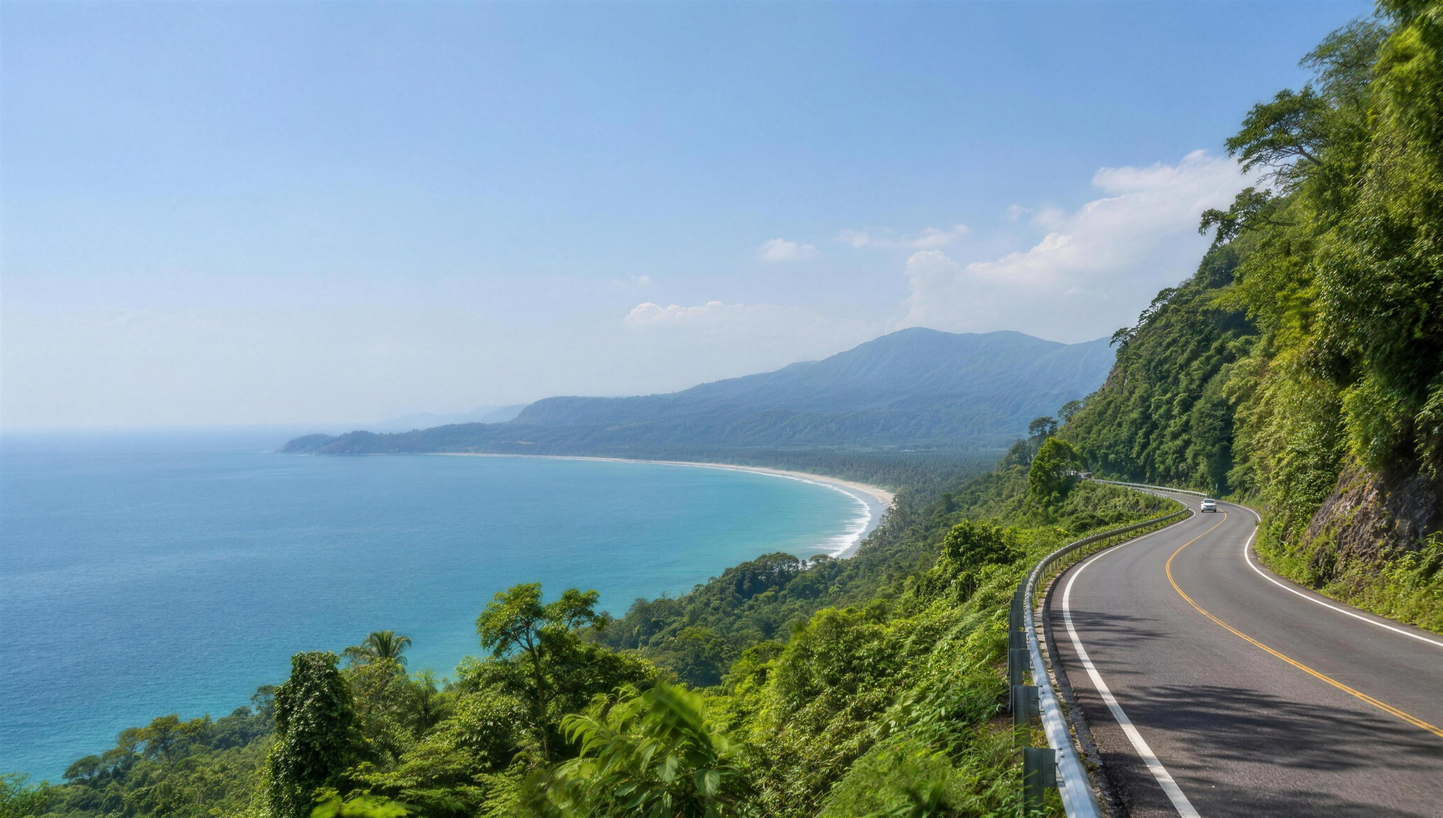
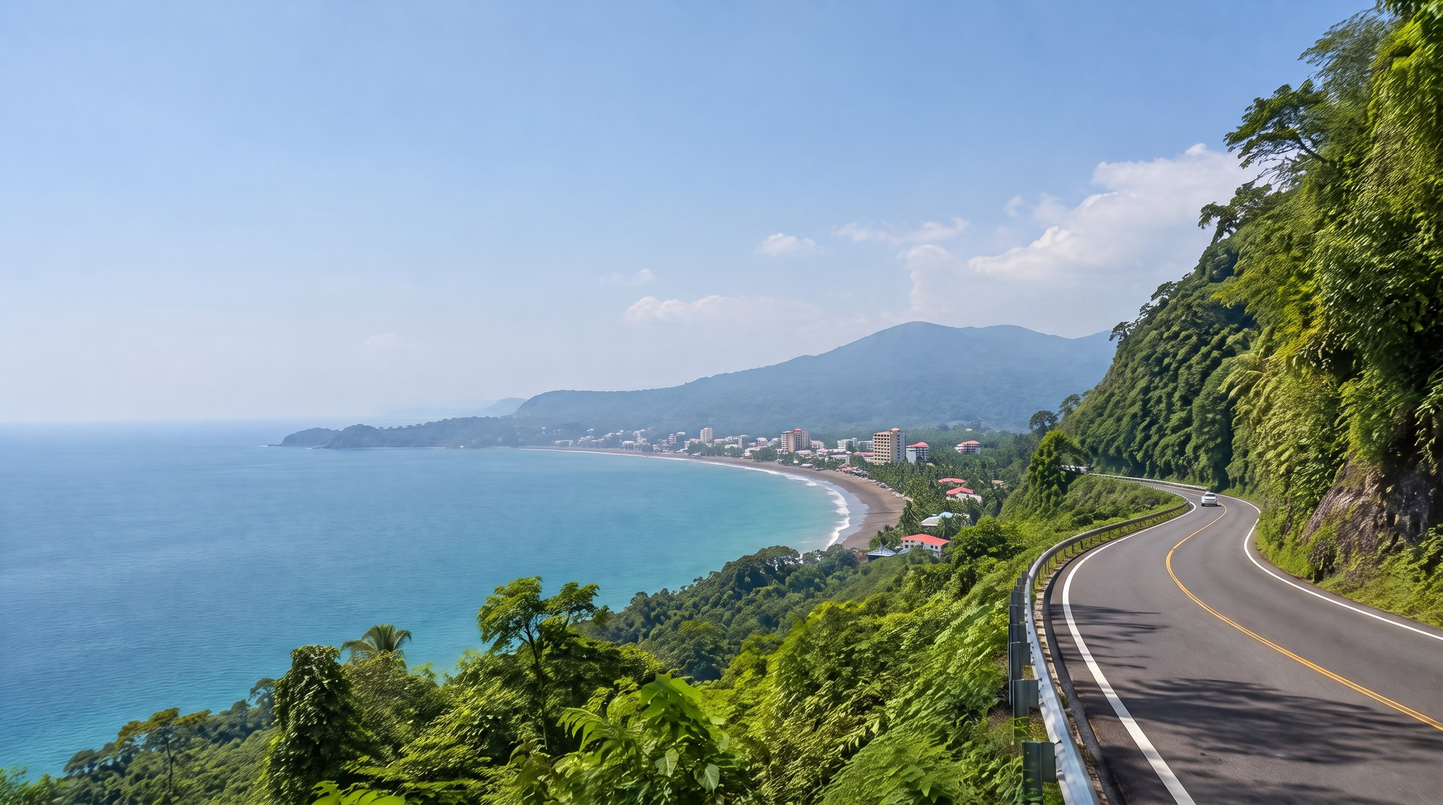
Fishing page: no numbers section, 8-species season chart (researched), crew-sailfish header; species seasons aligned site-wide; phone gap + crop fixes; cleaned cooler; Jaco in Getting here header

Changed region(s): [[0.0, 0.0, 1.0, 1.0], [0.8438, 0.7698, 0.875, 0.8006]]

diff --git a/costa-rica-fishing.html b/costa-rica-fishing.html
@@ -6,14 +6,14 @@
 <meta name="viewport" content="width=device-width, initial-scale=1.0">
 
 <title>Fishing Costa Rica's Central Pacific — Herradura Bay &amp; Jacó | Great Marlin</title>
-<meta name="description" content="What the water off Herradura Bay actually does, month by month. Verified seasons, the honest release numbers, the fish, the method and the law — from a boat that fishes it.">
+<meta name="description" content="What the water off Herradura Bay actually does, month by month. Verified seasons, the fish, the method and the law — from a boat that fishes it.">
 <link rel="canonical" href="https://greatmarlin.com/costa-rica-fishing.html">
 
 <meta property="og:type" content="article">
 <meta property="og:site_name" content="Great Marlin">
 <meta property="og:url" content="https://greatmarlin.com/costa-rica-fishing.html">
 <meta property="og:title" content="Fishing Costa Rica's Central Pacific — the honest guide">
-<meta property="og:description" content="Verified seasons, real release numbers, and the parts nobody puts on a charter website. Herradura Bay, Costa Rica.">
+<meta property="og:description" content="Verified seasons, the fish, and the parts nobody puts on a charter website. Herradura Bay, Costa Rica.">
 <meta property="og:image" content="https://greatmarlin.com/assets/gm-bow.jpg?v=2">
 <meta name="twitter:card" content="summary_large_image">
 <meta name="theme-color" content="#091228">
@@ -26,7 +26,7 @@
   "@context":"https://schema.org",
   "@type":"Article",
   "headline":"Fishing Costa Rica's Central Pacific — Herradura Bay and Jaco",
-  "description":"Verified season data, honest release numbers, species, method and regulations for offshore sportfishing out of Herradura Bay, Costa Rica.",
+  "description":"Verified season data, species, method and regulations for offshore sportfishing out of Herradura Bay, Costa Rica.",
   "image":"https://greatmarlin.com/assets/gm-bow.jpg?v=2",
   "author":{"@type":"Organization","name":"Great Marlin"},
   "publisher":{"@type":"Organization","name":"Great Marlin"},
@@ -82,11 +82,11 @@
 
   <!-- ============ HERO ============ -->
   <header class="pg-hero">
-    <div class="pg-hero-media"><img src="assets/photos/sail-boatside.jpg" alt="A marlin alongside the Great Marlin, held at the gunwale before release" fetchpriority="high" style="object-position:30% 50%;--mpos:24% 60%"></div>
+    <div class="pg-hero-media"><img src="assets/photos/crew-sailfish.jpg" alt="Crew and guests leaning over the gunwale of the Great Marlin with a sailfish alongside before release" fetchpriority="high" style="object-position:50% 42%;--mpos:50% 45%"></div>
     <div class="pg-hero-grade"></div>
     <div class="pg-hero-inner shell">
       <h1>Fishing Costa&nbsp;Rica's central Pacific</h1>
-      <p class="sub">What this water actually does — month by month, in real numbers. The seasons, the fish, the method, and the parts nobody else puts on a charter website.</p>
+      <p class="sub">What this water actually does, month by month. The seasons, the fish, the method, and the parts nobody else puts on a charter website.</p>
       <div class="stamp">
         <span>[ HERRADURA BAY · 09°38'N ]</span>
         <span>[ 22–28 MI TO BLUE WATER ]</span>
@@ -121,20 +121,21 @@
   <!-- ============ 02 THE SEASON ============ -->
   <section class="band band-deep" id="season">
     <div class="shell">
-      <div class="sec-head"><h2 class="d sec-title">The Season</h2><p class="sec-sub lbl">Both of them fish</p></div>
+      <div class="sec-head"><h2 class="d sec-title">The Season</h2><p class="sec-sub lbl">Something is always biting</p></div>
 
       <div class="split" style="margin-bottom:clamp(56px,9vh,110px)">
-        <div><p class="statement rv">Costa Rica has two seasons, and the second one is the secret.</p></div>
+        <div><p class="statement rv">Two seasons, and something is biting in every month of both.</p></div>
         <div>
-          <p class="prose rv"><strong>Dry season runs roughly December to April.</strong> Calm water, clean mornings, and the sailfishing this coast is famous for. It is the easy answer, and it is a good one.</p>
+          <p class="prose rv"><strong>Dry season runs roughly December to April.</strong> Calm water, clean mornings, the sailfishing this coast is famous for, and the best of the inshore year: roosterfish, cubera snapper and amberjack on the rocks and reefs.</p>
           <p class="prose rv"><strong>Green season runs roughly May to November.</strong> Rain arrives after two in the afternoon, almost never before — mornings are clear and you fish a full day. The rivers blow out and push floating trees and branches offshore, and dorado live under them. Yellowfin arrive with the rains, travelling with the spinner dolphin. Seas get a little rougher May through August.</p>
-          <p class="prose rv">June, July and August also hold a genuine second sailfish push. That is not our claim — <em>Marlin Magazine</em> says it, and they have nothing to sell you.</p>
+          <p class="prose rv"><strong>Offshore turns over with the rain.</strong> Yellowfin tuna peak from May into September, marlin from June to September, wahoo early in the green season and mahi from September to November. Sailfish never fully leave.</p>
+          <p class="prose rv"><strong>Inshore never closes.</strong> Roosterfish, snapper, jacks and grouper live on the rocks and the beach all year, which is why the half day is a good trip in any month.</p>
         </div>
       </div>
 
       <div class="cal-wrap rv">
         <table class="cal">
-          <caption class="m m-dim" style="text-align:left;padding-bottom:22px">Offshore · central Pacific · what runs when</caption>
+          <caption class="m m-dim" style="text-align:left;padding-bottom:22px">Offshore and inshore · central Pacific · what runs when</caption>
           <thead>
             <tr>
               <th><span class="m m-dim">Species</span></th>
@@ -145,27 +146,35 @@
           <tbody>
             <tr>
               <th scope="row">Pacific sailfish</th>
-              <td class="mo peak"><i></i></td><td class="mo peak"><i></i></td><td class="mo peak"><i></i></td><td class="mo peak"><i></i></td>
-              <td class="mo good"><i></i></td><td class="mo good"><i></i></td><td class="mo good"><i></i></td><td class="mo good"><i></i></td>
-              <td class="mo"><i></i></td><td class="mo"><i></i></td><td class="mo good"><i></i></td><td class="mo peak"><i></i></td>
+              <td class="mo peak"><i></i></td><td class="mo peak"><i></i></td><td class="mo peak"><i></i></td><td class="mo peak"><i></i></td><td class="mo good"><i></i></td><td class="mo good"><i></i></td><td class="mo good"><i></i></td><td class="mo good"><i></i></td><td class="mo"><i></i></td><td class="mo"><i></i></td><td class="mo good"><i></i></td><td class="mo peak"><i></i></td>
+            </tr>
+            <tr>
+              <th scope="row">Marlin (blue &amp; black)</th>
+              <td class="mo"><i></i></td><td class="mo good"><i></i></td><td class="mo good"><i></i></td><td class="mo"><i></i></td><td class="mo good"><i></i></td><td class="mo peak"><i></i></td><td class="mo peak"><i></i></td><td class="mo peak"><i></i></td><td class="mo peak"><i></i></td><td class="mo good"><i></i></td><td class="mo good"><i></i></td><td class="mo"><i></i></td>
             </tr>
             <tr>
               <th scope="row">Yellowfin tuna</th>
-              <td class="mo"><i></i></td><td class="mo"><i></i></td><td class="mo"><i></i></td><td class="mo"><i></i></td>
-              <td class="mo good"><i></i></td><td class="mo good"><i></i></td><td class="mo good"><i></i></td><td class="mo peak"><i></i></td>
-              <td class="mo peak"><i></i></td><td class="mo peak"><i></i></td><td class="mo good"><i></i></td><td class="mo"><i></i></td>
+              <td class="mo good"><i></i></td><td class="mo good"><i></i></td><td class="mo good"><i></i></td><td class="mo good"><i></i></td><td class="mo peak"><i></i></td><td class="mo peak"><i></i></td><td class="mo peak"><i></i></td><td class="mo peak"><i></i></td><td class="mo peak"><i></i></td><td class="mo good"><i></i></td><td class="mo good"><i></i></td><td class="mo good"><i></i></td>
             </tr>
             <tr>
               <th scope="row">Mahi mahi</th>
-              <td class="mo"><i></i></td><td class="mo"><i></i></td><td class="mo"><i></i></td><td class="mo good"><i></i></td>
-              <td class="mo good"><i></i></td><td class="mo good"><i></i></td><td class="mo good"><i></i></td><td class="mo good"><i></i></td>
-              <td class="mo good"><i></i></td><td class="mo good"><i></i></td><td class="mo peak"><i></i></td><td class="mo peak"><i></i></td>
+              <td class="mo"><i></i></td><td class="mo"><i></i></td><td class="mo"><i></i></td><td class="mo good"><i></i></td><td class="mo good"><i></i></td><td class="mo good"><i></i></td><td class="mo good"><i></i></td><td class="mo good"><i></i></td><td class="mo peak"><i></i></td><td class="mo peak"><i></i></td><td class="mo peak"><i></i></td><td class="mo good"><i></i></td>
             </tr>
             <tr>
-              <th scope="row">Blue marlin</th>
-              <td class="mo"><i></i></td><td class="mo"><i></i></td><td class="mo"><i></i></td><td class="mo"><i></i></td>
-              <td class="mo good"><i></i></td><td class="mo good"><i></i></td><td class="mo peak"><i></i></td><td class="mo peak"><i></i></td>
-              <td class="mo peak"><i></i></td><td class="mo peak"><i></i></td><td class="mo good"><i></i></td><td class="mo"><i></i></td>
+              <th scope="row">Wahoo</th>
+              <td class="mo"><i></i></td><td class="mo"><i></i></td><td class="mo good"><i></i></td><td class="mo good"><i></i></td><td class="mo peak"><i></i></td><td class="mo peak"><i></i></td><td class="mo good"><i></i></td><td class="mo good"><i></i></td><td class="mo"><i></i></td><td class="mo"><i></i></td><td class="mo"><i></i></td><td class="mo good"><i></i></td>
+            </tr>
+            <tr class="inshore-first">
+              <th scope="row">Roosterfish</th>
+              <td class="mo peak"><i></i></td><td class="mo peak"><i></i></td><td class="mo peak"><i></i></td><td class="mo peak"><i></i></td><td class="mo good"><i></i></td><td class="mo good"><i></i></td><td class="mo good"><i></i></td><td class="mo good"><i></i></td><td class="mo good"><i></i></td><td class="mo good"><i></i></td><td class="mo good"><i></i></td><td class="mo peak"><i></i></td>
+            </tr>
+            <tr>
+              <th scope="row">Cubera &amp; red snapper</th>
+              <td class="mo good"><i></i></td><td class="mo peak"><i></i></td><td class="mo peak"><i></i></td><td class="mo peak"><i></i></td><td class="mo good"><i></i></td><td class="mo good"><i></i></td><td class="mo good"><i></i></td><td class="mo good"><i></i></td><td class="mo good"><i></i></td><td class="mo good"><i></i></td><td class="mo good"><i></i></td><td class="mo good"><i></i></td>
+            </tr>
+            <tr>
+              <th scope="row">Jacks &amp; amberjack</th>
+              <td class="mo peak"><i></i></td><td class="mo peak"><i></i></td><td class="mo peak"><i></i></td><td class="mo good"><i></i></td><td class="mo good"><i></i></td><td class="mo good"><i></i></td><td class="mo good"><i></i></td><td class="mo good"><i></i></td><td class="mo good"><i></i></td><td class="mo good"><i></i></td><td class="mo good"><i></i></td><td class="mo good"><i></i></td>
             </tr>
           </tbody>
         </table>
@@ -177,58 +186,11 @@
         <span><i class="k-slow"></i> Around · not the reason to come</span>
       </div>
 
-      <p class="cal-note rv"><strong>Four rows. Not twelve.</strong> Every other Costa Rica fishing calendar online colours in twelve months for every species on the coast, and a lot of that colour is invented. These four are the ones we can stand behind for this stretch of water.</p>
-
-      <p class="cal-note rv"><strong>There is no wahoo row.</strong> Wahoo show up in the spread — fastest strike of the day, worth the whole trip when it happens. But we could not find a wahoo season for this coast that survives a second look. When a website tells you wahoo peaks in November, ask them how they know. Black marlin: occasionally. Also not a season.</p>
-
-      <p class="cal-note rv"><strong>And blue marlin needs an asterisk.</strong> The real blue marlin fishery here is the seamounts and the FADs, sixty to a hundred and fifty miles out — an overnight trip, not a day charter. On a day out of Herradura, a blue is a bonus and never a plan. In March 2026, forty tournament boats fished this water hard for three days and released eight of them.</p>
+      <p class="cal-note rv"><strong>The top five rows are offshore, the bottom three inshore.</strong> The full day runs offshore; the half day works the rocks and the beach. Grouper, sierra mackerel, African pompano and the odd black or striped marlin turn up too. The chart is what you can plan around, not everything that bites.</p>
     </div>
   </section>
 
-  <!-- ============ 03 THE NUMBERS ============ -->
-  <section class="band" id="numbers">
-    <div class="shell">
-      <div class="sec-head"><h2 class="d sec-title">The Numbers</h2><p class="sec-sub lbl">Sailfish releases · per boat · per day</p></div>
-
-      <div class="split" style="margin-bottom:clamp(48px,8vh,96px)">
-        <div><p class="statement rv">Every number you have read about this place is a tournament number.</p></div>
-        <div>
-          <p class="prose rv">"Dozens of sailfish a day." "Forty releases." "Seventy-five." Every one of those is real, and every one of them was caught by a tournament-caliber boat, on the best day of the best month, by a crew that does nothing else all year.</p>
-          <p class="prose rv">Here is the same fishery measured honestly. The tournament figures below are published results, not estimates.</p>
-        </div>
-      </div>
-
-      <ul class="figs rv">
-        <li>
-          <span class="what">Los Sueños Triple Crown, Leg III, March 2026. Forty of the best boats on earth, three days, peak season, this water. <strong>2,491 sailfish released.</strong> That works out to the fleet average, per boat, per day.</span>
-          <span class="fig">21<small>Elite fleet · peak</small></span>
-        </li>
-        <li>
-          <span class="what">The boat that won that series, on its hottest single day. This is the ceiling, and a professional tournament crew is standing on it.</span>
-          <span class="fig">41<small>The ceiling</small></span>
-        </li>
-        <li>
-          <span class="what">Sailfish bites on a good peak-season charter day, on a normal boat, with normal anglers. Sailfish throw hooks and win fights, so you will typically release about half of what bites.</span>
-          <span class="fig">4–12<small>Bites · Dec–Apr</small></span>
-        </li>
-        <li>
-          <span class="what">Green season. Fewer sails — but this is when the tuna and the dorado make up the difference, and when the calendar has room in it.</span>
-          <span class="fig">2–6<small>Bites · May–Nov</small></span>
-        </li>
-        <li>
-          <span class="what">Blue marlin released by that entire forty-boat tournament fleet across all three days. Not per boat. <strong>Total.</strong></span>
-          <span class="fig">8<small>40 boats · 3 days</small></span>
-        </li>
-      </ul>
-
-      <div class="pull rv">
-        <p>Raised is not released.</p>
-        <p class="src">A fish that comes up to the teasers has been "raised." It may never eat, and it may never be hooked. "Thirty to fifty raised" and "fifteen to twenty-five released" can describe the same good day. Watch which number you are being quoted.</p>
-      </div>
-    </div>
-  </section>
-
-  <!-- ============ 04 THE FISH ============ -->
+  <!-- ============ 03 THE FISH ============ -->
   <section class="band band-deep" id="fish">
     <div class="shell">
       <div class="sec-head"><h2 class="d sec-title">The Fish</h2><p class="sec-sub lbl">Billfish released · meat fish kept</p></div>
@@ -236,28 +198,28 @@
       <ul class="ledger rv">
         <li>
           <span class="name">Pacific sailfish</span>
-          <span class="season">Dec — Apr peak · Jun — Aug second run</span>
+          <span class="season">Dec — Apr peak · around all year</span>
           <span class="note">The reason this coast is famous, and the fish we plan the day around. Eight to ten feet of lit-up billfish behind a bait you can watch from the tower.</span>
         </li>
         <li>
           <span class="name">Yellowfin tuna</span>
-          <span class="season">Aug — Oct peak · from May</span>
+          <span class="season">May — Sep peak · most of the year</span>
           <span class="note">Found under the spinner dolphin in schools of forty to eighty pounds. Arrives with the rains. Sashimi on the ride home, and the hardest pull of your life on the way there.</span>
         </li>
         <li>
           <span class="name">Mahi mahi</span>
-          <span class="season">Nov — Dec run · green-season debris</span>
+          <span class="season">Sep — Nov peak · green-season debris</span>
           <span class="note">Colour, acrobatics, dinner. Green-season rain flushes trees and branches offshore and dorado live underneath them. A second, heavier run lands late October into December.</span>
         </li>
         <li>
           <span class="name">Blue marlin</span>
-          <span class="season">Jul — Oct · offshore · a bonus</span>
+          <span class="season">Jun — Sep · offshore · a bonus</span>
           <span class="note">The real fishery is sixty to a hundred and fifty miles out. On a day trip, a blue is luck. Mostly under three hundred pounds here — this is not Kona and we will not pretend it is.</span>
         </li>
         <li>
           <span class="name">Wahoo</span>
-          <span class="season">No reliable season</span>
-          <span class="note">The fastest strike in the spread. They turn up, we take them, and we will not print a calendar we cannot defend.</span>
+          <span class="season">May — Jun peak · offshore</span>
+          <span class="note">The fastest strike in the spread, worth the whole trip when it happens. Best early in the green season.</span>
         </li>
       </ul>
 
@@ -271,7 +233,7 @@
         </li>
         <li>
           <span class="name">Cubera snapper</span>
-          <span class="season">All year · Jul — Dec strongest</span>
+          <span class="season">All year · Feb — Apr strongest</span>
           <span class="note">A brawler that lives in the rocks and knows exactly where they are. The one inshore species here with a season we trust.</span>
         </li>
         <li>
@@ -305,7 +267,7 @@
     </div>
   </section>
 
-  <!-- ============ 05 METHOD & LAW ============ -->
+  <!-- ============ 04 METHOD & LAW ============ -->
   <section class="band" id="method">
     <div class="shell">
       <div class="sec-head"><h2 class="d sec-title">Method &amp; Law</h2><p class="sec-sub lbl">The regulation wrote the technique</p></div>

diff --git a/index.html b/index.html
@@ -299,6 +299,8 @@ a{color:inherit}
 .on-light{background:var(--tower);color:var(--hull)}
 #rates + #boat{border-top:1px solid var(--rule-light)} /* prices moved under the water (10-10): two white fields meet here */
 .sec{padding:clamp(88px,13vh,160px) 0}
+#boat + #rates{border-top:1px solid var(--rule-light)}
+@media(max-width:760px){.sec{padding:64px 0}#boat + #rates{padding-top:52px}} /* phone: two white sections were stacking ~210px of empty space (Tony 10-11) */
 #water h2{font-size:clamp(1.62rem,3.48vw,3.6rem);max-width:17ch}
 #water .lede-row{display:grid;grid-template-columns:1.1fr 1fr;gap:clamp(28px,5vw,80px);align-items:center}
 #water .lede-left{display:flex;flex-direction:column;gap:clamp(28px,4vh,44px)}
@@ -482,7 +484,8 @@ a{color:inherit}
 @media(max-width:860px){
   #book{display:block;min-height:0}
   #book .bg{position:relative;height:62svh}
-  #book .bg img{object-position:70% 50%}
+  #book .bg img{object-position:64% 50%}
+  img[style*="--mpos"]{object-position:var(--mpos)!important} /* .mpos-ok phone crop aim */
   #book::after{inset:0 0 auto 0;height:62svh;background:linear-gradient(180deg,rgba(19,23,24,0) 70%,rgba(19,23,24,1) 100%)}
   #book .wrap{padding-top:8px}
 }
@@ -698,7 +701,7 @@ a{color:inherit}
         <figcaption>Off Herradura</figcaption>
       </figure>
       <figure class="r-a">
-        <img src="assets/gm-hero.jpg?v=7" alt="The Great Marlin at a mooring on a clear morning, her name across the transom, green hills behind" loading="lazy" decoding="async" style="object-position:40% 55%">
+        <img src="assets/gm-hero.jpg?v=7" alt="The Great Marlin at a mooring on a clear morning, her name across the transom, green hills behind" loading="lazy" decoding="async" style="object-position:40% 55%;--mpos:74% 55%">
         <figcaption>A clear morning at the mooring</figcaption>
       </figure>
       <figure class="r-b">
@@ -796,7 +799,7 @@ a{color:inherit}
       <figure class="m2"><img src="assets/photos/roosterfish.jpg" alt="A roosterfish held up on the bow before release, the coast behind" loading="lazy" decoding="async" style="object-position:50% 35%"><figcaption>Roosterfish, inshore, released</figcaption></figure>
       <figure class="m3"><img src="assets/photos/sail-boatside.jpg" alt="A marlin alongside the boat, held by the bill at the gunwale before release" loading="lazy" decoding="async" style="object-position:30% 50%"><figcaption>Marlin at the gunwale</figcaption></figure>
       <figure class="m4"><img src="assets/photos/family-mahi.jpg" alt="A family of six on the stern holding a mahi mahi, the wake bright behind them" loading="lazy" decoding="async" style="object-position:50% 65%"><figcaption>Mahi, heading home</figcaption></figure>
-      <figure class="m5"><img src="assets/photos/sail-jump.jpg" alt="A sailfish tail-walking a boat-length off the stern" loading="lazy" decoding="async" style="object-position:50% 40%"><figcaption>Tail-walking, a boat-length off</figcaption></figure>
+      <figure class="m5"><img src="assets/photos/sail-jump.jpg" alt="A sailfish tail-walking a boat-length off the stern" loading="lazy" decoding="async" style="object-position:22% 40%"><figcaption>Tail-walking, a boat-length off</figcaption></figure>
     </div>
 
     <div class="below" id="below">
@@ -824,13 +827,13 @@ a{color:inherit}
         <a class="textlink" href="costa-rica-fishing.html">The seasons, the numbers, the law</a>
       </div>
       <ul class="species">
-        <li class="lead"><img src="assets/fish/sailfish.webp" alt="" loading="lazy" decoding="async"><span class="nm">Pacific sailfish</span><span class="ss">Dec&#8211;Apr peak &#183; Jun&#8211;Aug second run</span><span class="nt">The reason this coast is famous, and the fish we plan the day around.</span></li>
-        <li><img src="assets/fish/yellowfin.webp" alt="" loading="lazy" decoding="async"><span class="nm">Yellowfin tuna</span><span class="ss">Aug&#8211;Oct peak &#183; from May</span><span class="nt">Found under the spinner dolphin. Sashimi on the ride home.</span></li>
-        <li><img src="assets/fish/mahi.webp" alt="" loading="lazy" decoding="async"><span class="nm">Mahi mahi</span><span class="ss">Nov&#8211;Dec run &#183; green season</span><span class="nt">Colour, acrobatics, dinner.</span></li>
-        <li><img src="assets/fish/marlin.webp" alt="" loading="lazy" decoding="async"><span class="nm">Blue marlin</span><span class="ss">Jul&#8211;Oct &#183; offshore &#183; a bonus</span><span class="nt">The real fishery is sixty miles further out. On a day trip, a blue is luck.</span></li>
-        <li><img src="assets/fish/wahoo.webp" alt="" loading="lazy" decoding="async"><span class="nm">Wahoo</span><span class="ss">No reliable season</span><span class="nt">The fastest strike in the spread. We won&#8217;t print a calendar we can&#8217;t defend.</span></li>
-        <li><img src="assets/fish/roosterfish.webp" alt="" loading="lazy" decoding="async"><span class="nm">Roosterfish</span><span class="ss">All year &#183; inshore</span><span class="nt">The signature inshore fight. Released every time.</span></li>
-        <li><img src="assets/fish/cubera.webp" alt="" loading="lazy" decoding="async"><span class="nm">Cubera snapper</span><span class="ss">All year &#183; Jul&#8211;Dec strongest</span><span class="nt">A brawler that lives in the rocks and knows it.</span></li>
+        <li class="lead"><img src="assets/fish/sailfish.webp" alt="" loading="lazy" decoding="async"><span class="nm">Pacific sailfish</span><span class="ss">Dec&#8211;Apr peak &#183; around all year</span><span class="nt">The reason this coast is famous, and the fish we plan the day around.</span></li>
+        <li><img src="assets/fish/yellowfin.webp" alt="" loading="lazy" decoding="async"><span class="nm">Yellowfin tuna</span><span class="ss">May&#8211;Sep peak &#183; most of the year</span><span class="nt">Found under the spinner dolphin. Sashimi on the ride home.</span></li>
+        <li><img src="assets/fish/mahi.webp" alt="" loading="lazy" decoding="async"><span class="nm">Mahi mahi</span><span class="ss">Sep&#8211;Nov peak &#183; green season</span><span class="nt">Colour, acrobatics, dinner.</span></li>
+        <li><img src="assets/fish/marlin.webp" alt="" loading="lazy" decoding="async"><span class="nm">Blue marlin</span><span class="ss">Jun&#8211;Sep &#183; offshore &#183; a bonus</span><span class="nt">The real fishery is sixty miles further out. On a day trip, a blue is luck.</span></li>
+        <li><img src="assets/fish/wahoo.webp" alt="" loading="lazy" decoding="async"><span class="nm">Wahoo</span><span class="ss">May&#8211;Jun peak &#183; offshore</span><span class="nt">The fastest strike in the spread.</span></li>
+        <li><img src="assets/fish/roosterfish.webp" alt="" loading="lazy" decoding="async"><span class="nm">Roosterfish</span><span class="ss">All year &#183; Dec&#8211;Apr strongest</span><span class="nt">The signature inshore fight. Released every time.</span></li>
+        <li><img src="assets/fish/cubera.webp" alt="" loading="lazy" decoding="async"><span class="nm">Cubera snapper</span><span class="ss">All year &#183; Feb&#8211;Apr strongest</span><span class="nt">A brawler that lives in the rocks and knows it.</span></li>
         <li><img src="assets/fish/jack.webp" alt="" loading="lazy" decoding="async"><span class="nm">Jack crevalle</span><span class="ss">All year &#183; inshore</span><span class="nt">Pound for pound, the meanest pull of the day.</span></li>
         <li><img src="assets/fish/red-snapper.webp" alt="" loading="lazy" decoding="async"><span class="nm">Pacific red snapper</span><span class="ss">All year &#183; on the bottom</span><span class="nt">Pargo rojo. Smaller than a cubera, better on the grill.</span></li>
         <li><img src="assets/fish/grouper.webp" alt="" loading="lazy" decoding="async"><span class="nm">Grouper</span><span class="ss">All year &#183; rocks &amp; pinnacles</span><span class="nt">Ten seconds to turn its head, or it&#8217;s back in the rocks.</span></li>

diff --git a/full-day-fishing-charter.html b/full-day-fishing-charter.html
@@ -154,11 +154,11 @@
     <div class="shell">
       <div class="sec-head"><h2 class="d sec-title">What you can catch</h2><p class="sec-sub lbl">Seasons for this stretch of water</p></div>
       <ul class="ledger">
-        <li><span class="name">Pacific sailfish</span><span class="season">Dec–Apr peak · Jun–Aug second run</span><span class="note">The reason this coast is famous, and the fish we plan the day around.</span></li>
-        <li><span class="name">Yellowfin tuna</span><span class="season">Aug–Oct peak · from May</span><span class="note">Found under the spinner dolphin. Sashimi on the ride home.</span></li>
-        <li><span class="name">Mahi mahi</span><span class="season">Nov–Dec run · green season</span><span class="note">Colour, acrobatics, dinner.</span></li>
-        <li><span class="name">Blue marlin</span><span class="season">Jul–Oct · offshore · a bonus</span><span class="note">The real fishery is sixty miles further out. On a day trip, a blue is luck.</span></li>
-        <li><span class="name">Wahoo</span><span class="season">No reliable season</span><span class="note">The fastest strike in the spread. We won’t print a calendar we can’t defend.</span></li>
+        <li><span class="name">Pacific sailfish</span><span class="season">Dec–Apr peak · around all year</span><span class="note">The reason this coast is famous, and the fish we plan the day around.</span></li>
+        <li><span class="name">Yellowfin tuna</span><span class="season">May–Sep peak · most of the year</span><span class="note">Found under the spinner dolphin. Sashimi on the ride home.</span></li>
+        <li><span class="name">Mahi mahi</span><span class="season">Sep–Nov peak · green season</span><span class="note">Colour, acrobatics, dinner.</span></li>
+        <li><span class="name">Marlin</span><span class="season">Jun–Sep · blue and black · a bonus</span><span class="note">The real fishery is sixty miles further out. On a day trip, a blue is luck.</span></li>
+        <li><span class="name">Wahoo</span><span class="season">May–Jun peak</span><span class="note">The fastest strike in the spread.</span></li>
       </ul>
       <a class="guide-link" href="costa-rica-fishing.html">The full season guide</a>
     </div>

diff --git a/half-day-fishing-charter.html b/half-day-fishing-charter.html
@@ -122,7 +122,7 @@
       <div class="sec-head"><h2 class="d sec-title">From the water</h2><p class="sec-sub lbl">Inshore, along the rocks</p></div>
       <div class="g-grid">
         <figure class="g-card"><img src="assets/photos/half-cast-900.jpg" alt="Casting the rocks" loading="lazy" decoding="async"><figcaption>Casting the rocks</figcaption></figure>
-        <figure class="g-card"><img src="assets/photos/half-cooler-900.jpg?v=3" alt="Cold Imperial and fruit aboard" loading="lazy" decoding="async"><figcaption>Cold Imperial and fruit aboard</figcaption></figure>
+        <figure class="g-card"><img src="assets/photos/half-cooler-900.jpg?v=4" alt="Cold Imperial and fruit aboard" loading="lazy" decoding="async"><figcaption>Cold Imperial and fruit aboard</figcaption></figure>
         <figure class="g-card"><img src="assets/photos/half-rooster-900.jpg" alt="Roosterfish on the bait" loading="lazy" decoding="async"><figcaption>Roosterfish on the bait</figcaption></figure>
       </div>
     </div>

diff --git a/assets/site.css b/assets/site.css
@@ -139,6 +139,8 @@ a{color:inherit}
 .band:not(.band-deep) .cal .mo i{background:rgba(19,23,24,.07)}
 .cal .mo.good i{background:var(--pacific-bar)}
 .cal .mo.peak i{background:var(--flag)}
+.cal tr.inshore-first{border-top:2px solid currentColor}
+@media(max-width:760px){.cal{min-width:0;table-layout:fixed}.cal thead th{font-size:.58rem;padding:10px 0;letter-spacing:0}.cal thead th:first-child{width:34%}.cal tbody th{font-size:.62rem;line-height:1.25;white-space:normal;padding:12px 8px 12px 0}.cal .mo{padding:12px 1px}.cal .mo i{height:12px}} /* phone: whole year fits, no hidden sideways scroll */
 .cal-key{display:flex;gap:22px;flex-wrap:wrap;margin-top:22px;font-family:var(--display);font-stretch:80%;font-weight:700;text-transform:uppercase;letter-spacing:.05em;font-size:.8125rem}
 .cal-key span{display:inline-flex;align-items:center;gap:9px}
 .cal-key i{width:26px;height:14px;display:inline-block}

diff --git a/getting-here.html b/getting-here.html
@@ -83,7 +83,7 @@
 
   <!-- ============ HERO ============ -->
   <header class="pg-hero">
-    <div class="pg-hero-media"><img src="assets/photos/head-road.jpg?v=1" alt="The coast road curving above a Pacific bay near Jaco, jungle on the hillside" fetchpriority="high" style="object-position:60% 50%;--mpos:78% 60%"></div>
+    <div class="pg-hero-media"><img src="assets/photos/head-road.jpg?v=2" alt="The coast road curving above the bay at Jaco, the town along the beach below" fetchpriority="high" style="object-position:60% 50%;--mpos:78% 60%"></div>
     <div class="pg-hero-grade"></div>
     <div class="pg-hero-inner shell">
       <h1>Getting to Herradura&nbsp;Bay</h1>
